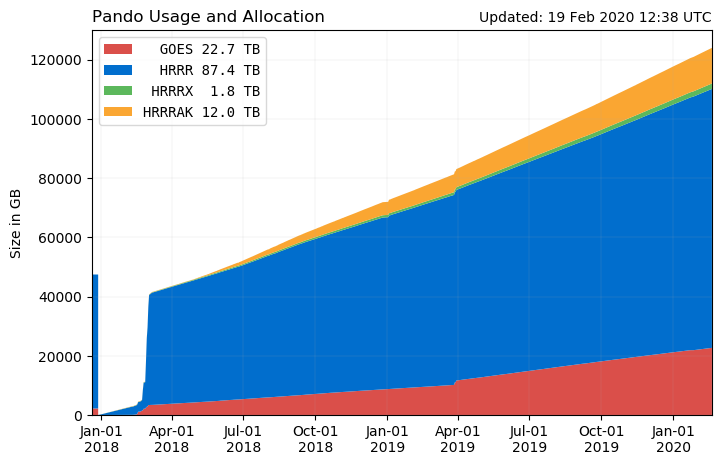
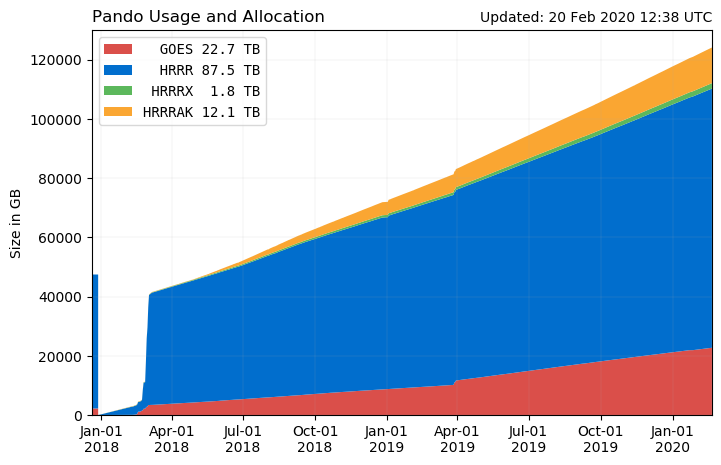
updated reference to GLM-HRRR paper

diff --git a/Pando_archive/index.html b/Pando_archive/index.html
@@ -46,7 +46,7 @@
 
 <br>
   <script src='./js/pando_status.js'></script>
-    <center><font size=12> 124.0 TB out of 130 TB</font>
+    <center><font size=12> 124.1 TB out of 130 TB</font>
     <div class="progress" style="max-width:700px;height:35px">
             <div class="progress-bar progress-bar-danger" role="progressbar" style="width:17%">
               <font size=4></font>
@@ -73,9 +73,9 @@
         <th style='text-align:center'>Estimated Full Date</th>
       </tr>
       <tr>
-        <td>127.74 GB</td>
+        <td>124.59 GB</td>
         <td>47</td>
-        <td>06 April 2020</td>
+        <td>07 April 2020</td>
       </tr>
     </table>
     <table class="table table-bordered" style='text-align:center;max-width:700px'>
@@ -86,18 +86,18 @@
       </tr>
       <tr>
         <th style='text-align:right'>ABI-L2-MCMIPC</th>
-        <td>14.66</td>
-        <td>15.51</td>
+        <td>14.56</td>
+        <td>13.76</td>
       </tr>
       <tr>
         <th style='text-align:right'>GLM-L2-LCFA</th>
-        <td>1.43</td>
-        <td>0.69</td>
+        <td>1.04</td>
+        <td>0.60</td>
       </tr>
       <tr>
         <th style='text-align:right'>Total</th>
-        <th style='text-align:center'>16.09 GB</th>
-        <th style='text-align:center'>16.21 GB</th>
+        <th style='text-align:center'>15.60 GB</th>
+        <th style='text-align:center'>14.36 GB</th>
       </tr>
     </table>
 
@@ -111,9 +111,9 @@
       </tr>
       <tr>
         <th style='text-align:right'>sfc</th>
-        <td>65.79</td>
-        <td>3.16</td>
-        <td>17.96</td>
+        <td>64.69</td>
+        <td>3.27</td>
+        <td>18.13</td>
       </tr>
       <tr>
         <th style='text-align:right'>prs</th>
@@ -129,9 +129,9 @@
       </tr>
       <tr>
         <th style='text-align:right'>Total</th>
-        <th style='text-align:center'>74.33 GB</th>
-        <th style='text-align:center'>3.16 GB</th>
-        <th style='text-align:center'>17.96 GB</th>
+        <th style='text-align:center'>73.23 GB</th>
+        <th style='text-align:center'>3.27 GB</th>
+        <th style='text-align:center'>18.13 GB</th>
       </tr>
     </table>
 
@@ -142,7 +142,7 @@
     <a href="https://github.com/blaylockbk/Web-Homepage/blob/master/Pando_archive/index.html"><i class="fab fa-github"></i> Page</a>
     <a href="https://github.com/blaylockbk/Web-Homepage/blob/master/Pando_archive/daily_usage.py"><i class="fab fa-github"></i> Plot</a>
     <br>
-    Last Updated: 19 Feb 2020 12:38 UTC
+    Last Updated: 20 Feb 2020 12:38 UTC
   </div>
 
 </div>

diff --git a/publications.html b/publications.html
@@ -29,7 +29,7 @@
             <div id="tab20" class="tab-pane fade in active">
                 <h3>Comparison of Lightning Forecasts from the High-Resolution Rapid Refresh Model to Geostationary Lightning Mapper Observations.</h3>
                 <p>Blaylock, B.K., and J.D. Horel, 2020: Comparison of Lightning Forecasts from the High-Resolution Rapid Refresh Model to Geostationary Lightning Mapper Observations.
-                    <i>Wea. Forecasting</i>, <b>In Press</b>, <a href='https://doi.org/10.1175/WAF-D-19-0141.1'>https://doi.org/10.1175/WAF-D-19-0141.1</a>.
+                    <i>Wea. Forecasting</i>, <b>35</b>, 401-416, <a href='https://doi.org/10.1175/WAF-D-19-0141.1'>https://doi.org/10.1175/WAF-D-19-0141.1</a>.
             </div>
 
             <div id="tab18" class="tab-pane fade in">
